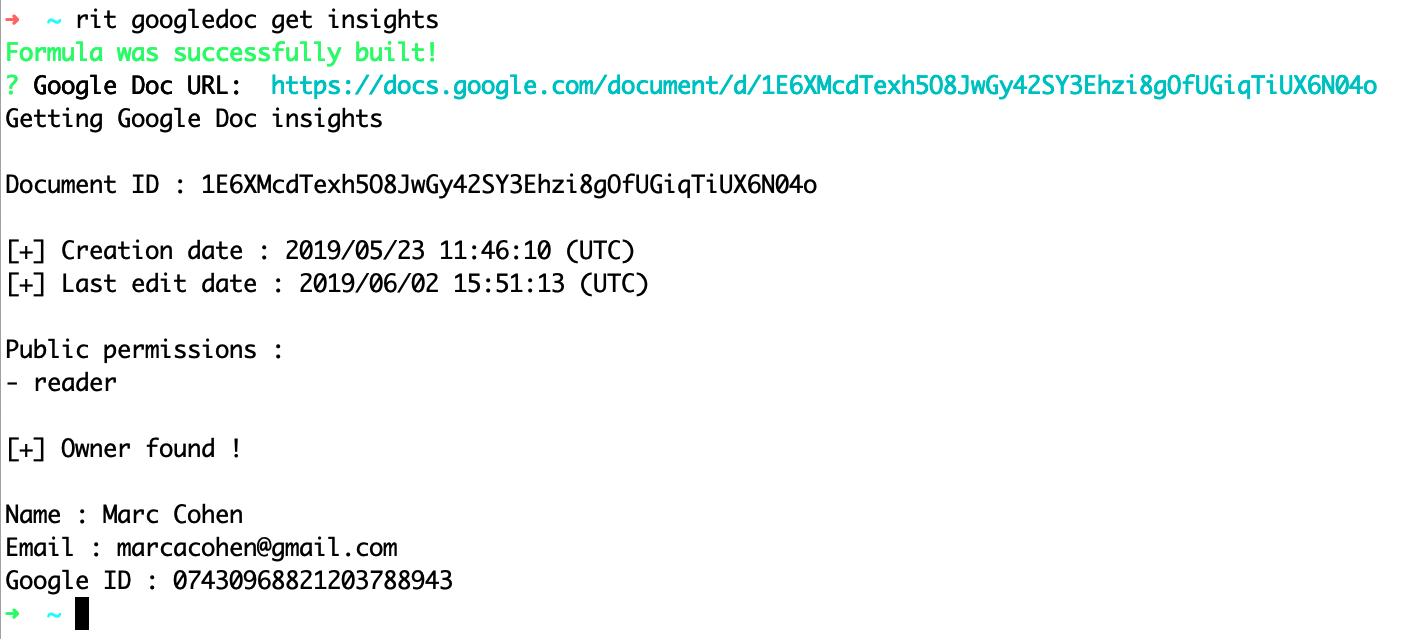
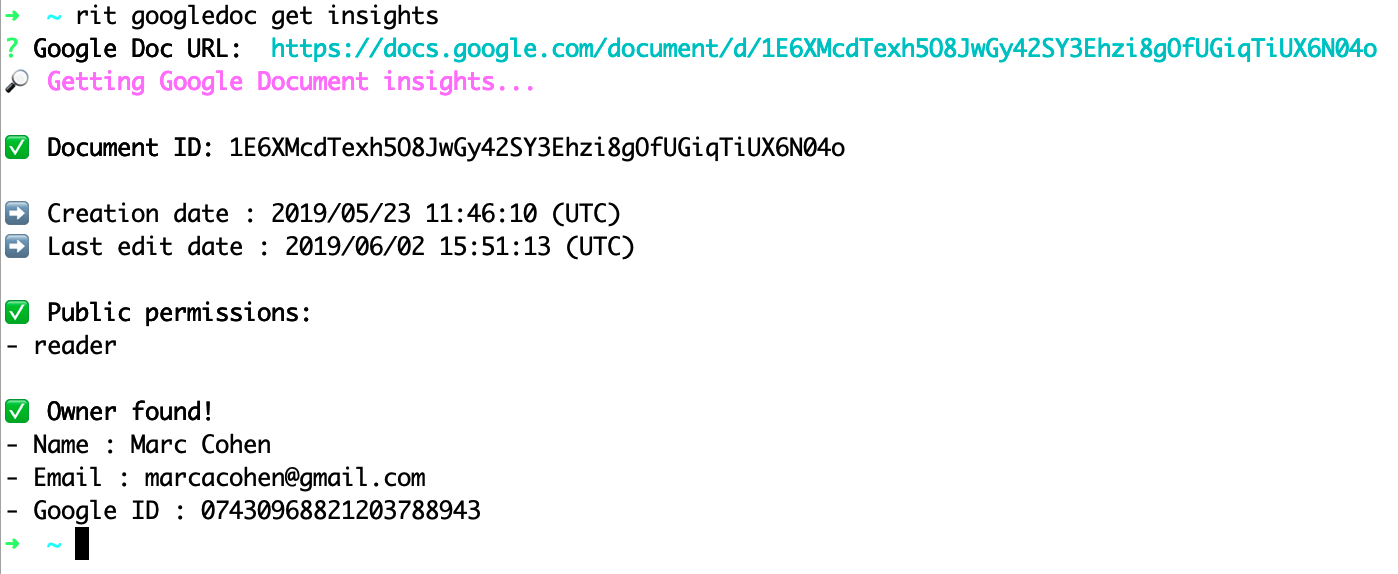
update formula display picture

diff --git a/googledoc/get/insights/src/formula/formula.py b/googledoc/get/insights/src/formula/formula.py
@@ -7,12 +7,13 @@ import sys
 import httpx
 
 def run(doc_link):
-    print("\033[1m \033[95m 🔎 Getting Google Document insights...\033[0m")
+    print("\033[1m\033[95m🔎 Getting Google Document insights...\033[0m")
     doc_id = ''.join([x for x in doc_link.split("?")[0].split("/") if len(x) == 44])
     if doc_id:
-        print(f"\nDocument ID : {doc_id}\n")
+        print(f"\n\033[1m✅ Document ID:\033[0m {doc_id}\n")
     else:
-        exit("\nDocument ID not found.\nPlease make sure you have something that looks like this in your link :\1BxiMVs0XRA5nFMdKvBdBZjgmUUqptlbs74OgvE2upms")
+        print(f"\n\033[91m❌ Document ID not found.\nPlease make sure you have something that looks like this in your link :\1BxiMVs0XRA5nFMdKvBdBZjgmUUqptlbs74OgvE2upms\033[0m")
+        exit()
 
     headers = {"X-Origin": "https://drive.google.com"}
     client = httpx.Client(headers=headers)
@@ -22,14 +23,14 @@ def run(doc_link):
     req = client.get(url)
     
     if "File not found" in str(req.text):
-        print("This file does not exist or is not public")
+        print("\033[91m❌ This file does not exist or is not public\033[0m")
         exit()
-    
+
     if "rateLimitExceeded" in req.text:
         for i in range(0,5):
             req = client.get(url)
             if "rateLimitExceeded" in req.text and i == 4:
-                print("Rate Limit Exceeded. Try again later.")
+                print("\033[91m❌ Rate Limit Exceeded. Try again later.\033[0m")
                 exit()
             else:
                 continue
@@ -41,8 +42,8 @@ def run(doc_link):
     created_date = datetime.strptime(data["createdDate"], '%Y-%m-%dT%H:%M:%S.%fz')
     modified_date = datetime.strptime(data["modifiedDate"], '%Y-%m-%dT%H:%M:%S.%fz')
 
-    print(f"[+] Creation date : {created_date.strftime('%Y/%m/%d %H:%M:%S')} (UTC)")
-    print(f"[+] Last edit date : {modified_date.strftime('%Y/%m/%d %H:%M:%S')} (UTC)")
+    print(f"➡  Creation date : {created_date.strftime('%Y/%m/%d %H:%M:%S')} (UTC)")
+    print(f"➡  Last edit date : {modified_date.strftime('%Y/%m/%d %H:%M:%S')} (UTC)")
 
     # Permissions
     user_permissions = []
@@ -62,17 +63,17 @@ def run(doc_link):
         elif permission["role"] == "owner":
             owner = permission
 
-    print("\nPublic permissions :")
+    print("\n\033[1m✅ Public permissions:\033[0m")
     for permission in public_permissions:
         print(f"- {permission}")
 
     if public_permissions != user_permissions:
-        print("[+] You have special permissions :")
+        print("\033[1m⭐ You have special permissions:\033[0m")
         for permission in user_permissions:
             print(f"- {permission}")
 
     if owner:
-        print("\n[+] Owner found !\n")
-        print(f"Name : {owner['name']}")
-        print(f"Email : {owner['emailAddress']}")
-        print(f"Google ID : {owner['id']}")
+        print("\n\033[1m✅ Owner found!\033[0m")
+        print(f"- Name : {owner['name']}")
+        print(f"- Email : {owner['emailAddress']}")
+        print(f"- Google ID : {owner['id']}")
